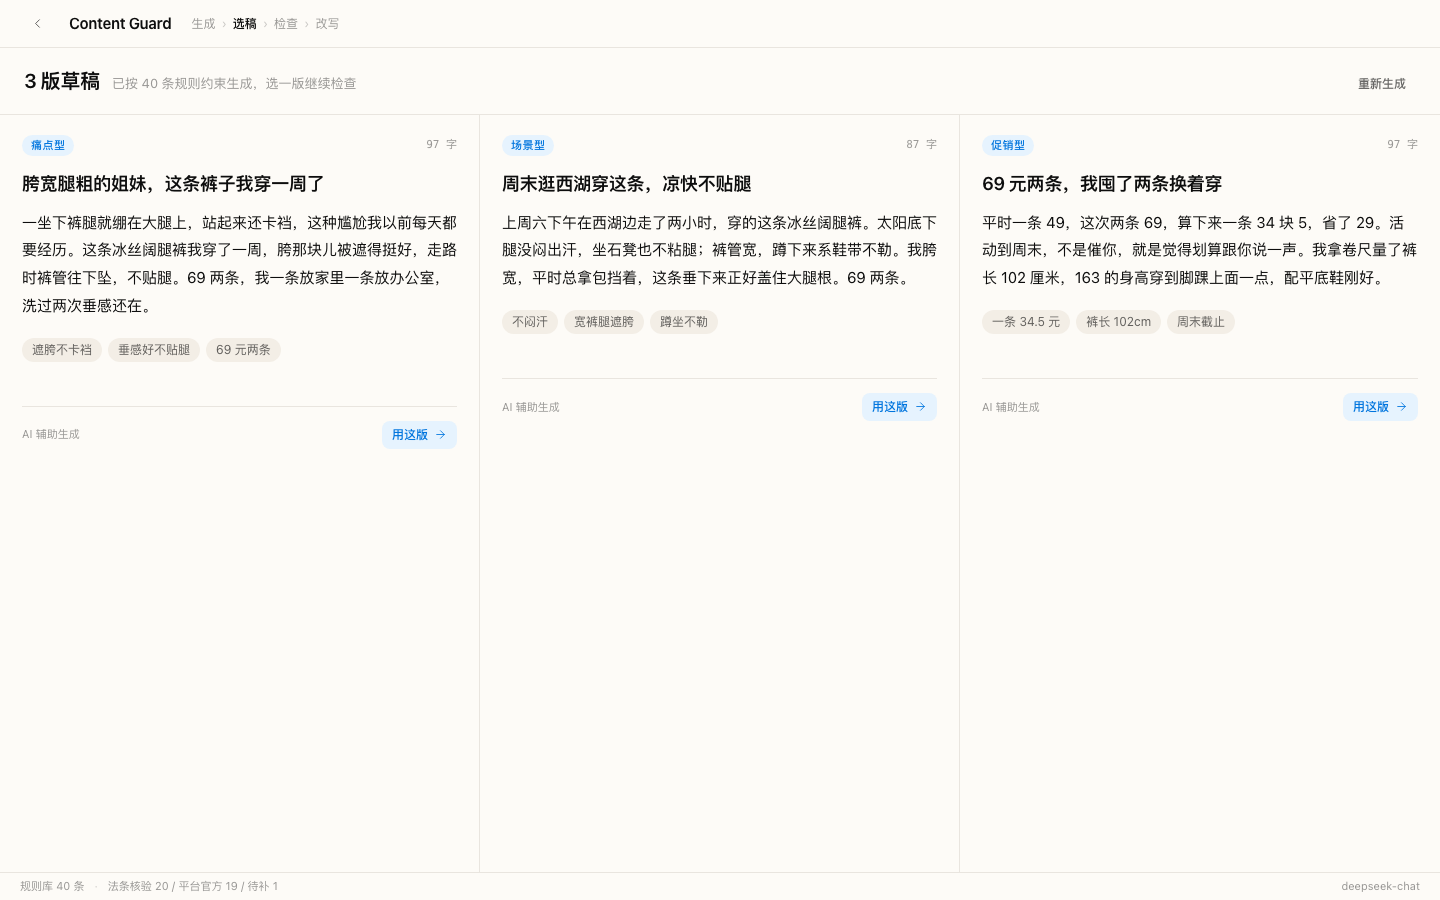
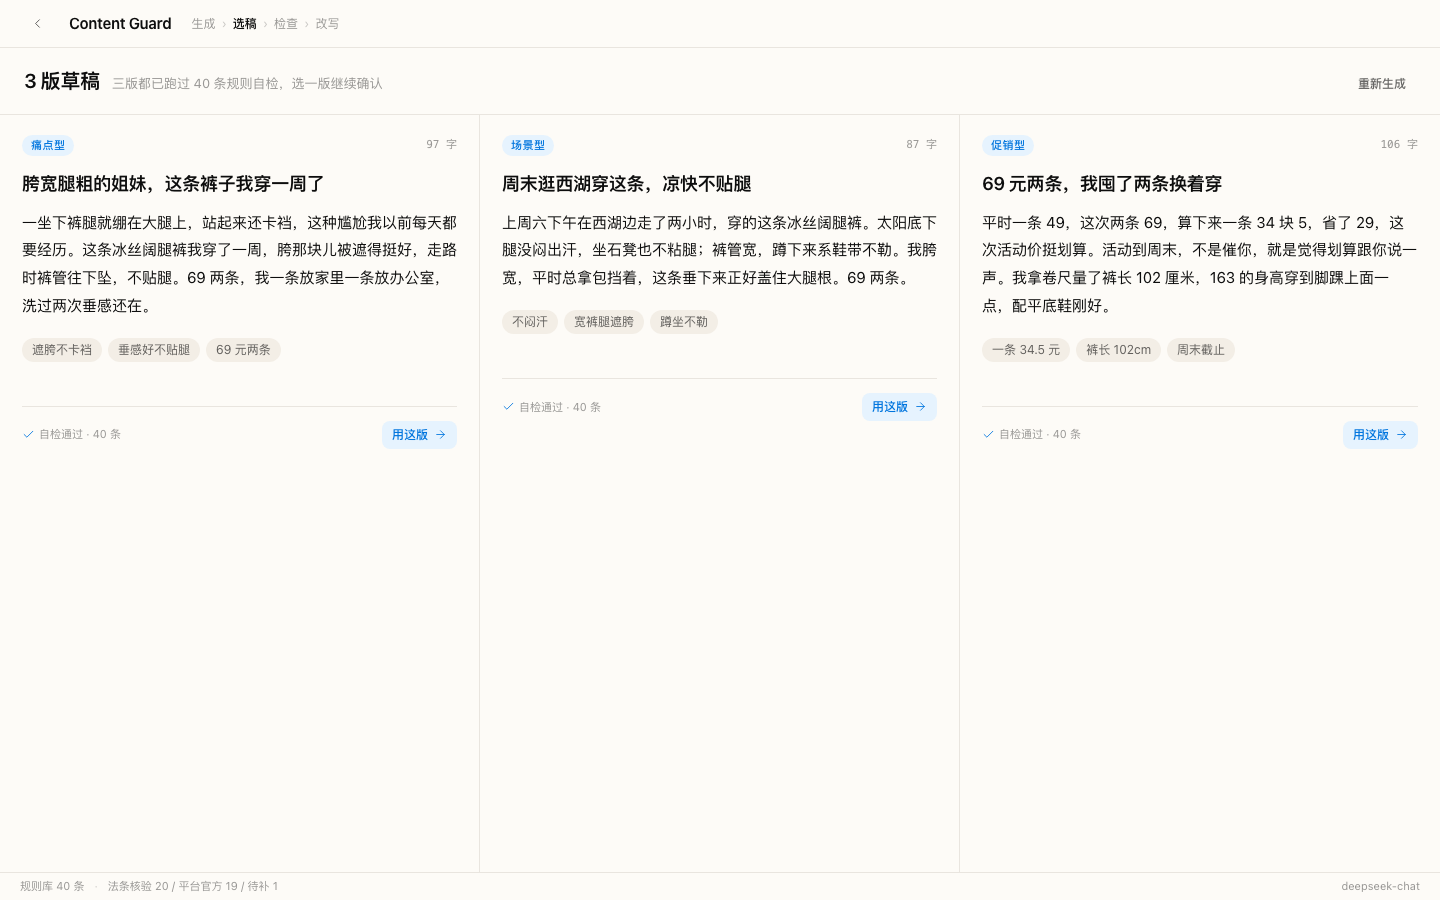
design: 生成即自检（去掉演示用的埋坑），每版显示自检状态；记录 ADR-003

diff --git a/designs/prototype/data.jsx b/designs/prototype/data.jsx
@@ -143,6 +143,7 @@ const DRAFTS = [
       "这条冰丝阔腿裤我穿了一周，胯那块儿被遮得挺好，走路时裤管往下坠，不贴腿。" +
       "69 两条，我一条放家里一条放办公室，洗过两次垂感还在。",
     points: ["遮胯不卡裆", "垂感好不贴腿", "69 元两条"],
+    selfCheck: { rules: 40, fixed: 0 },
   },
   {
     angle: "scene",
@@ -153,46 +154,18 @@ const DRAFTS = [
       "太阳底下腿没闷出汗，坐石凳也不粘腿；裤管宽，蹲下来系鞋带不勒。" +
       "我胯宽，平时总拿包挡着，这条垂下来正好盖住大腿根。69 两条。",
     points: ["不闷汗", "宽裤腿遮胯", "蹲坐不勒"],
+    selfCheck: { rules: 40, fixed: 0 },
   },
   {
     angle: "promo",
     angleName: "促销型",
     title: "69 元两条，我囤了两条换着穿",
     text:
-      "平时一条 49，这次两条 69，算下来一条 34 块 5，省了 29，这个价全网最低了。" +
+      "平时一条 49，这次两条 69，算下来一条 34 块 5，省了 29，这次活动价挺划算。" +
       "活动到周末，不是催你，就是觉得划算跟你说一声。" +
       "我拿卷尺量了裤长 102 厘米，163 的身高穿到脚踝上面一点，配平底鞋刚好。",
     points: ["一条 34.5 元", "裤长 102cm", "周末截止"],
-    /* 生成也会漂：这一版留了一处绝对化，用来说明"生成完也要检查" */
-    violations: [
-      {
-        n: 1,
-        rule_id: "ABS-004",
-        rule_title: "禁止价格类绝对化",
-        severity: "high",
-        quote: "全网最低",
-        source: "《广告绝对化用语执法指南》第二条",
-        clause: "包括“国家级”“最高级”“最佳”以及与其含义相同或者近似的其他用语。",
-        suggestion: "改为具体、可核对的活动价，例如「这次活动价挺划算」",
-        confidence: 0.93,
-      },
-    ],
-    rewrite: {
-      title: "69 元两条，我囤了两条换着穿",
-      text:
-        "平时一条 49，这次两条 69，算下来一条 34 块 5，省了 29，这次活动价挺划算。" +
-        "活动到周末，不是催你，就是觉得划算跟你说一声。" +
-        "我拿卷尺量了裤长 102 厘米，163 的身高穿到脚踝上面一点，配平底鞋刚好。",
-      after: 0,
-      rounds: 1,
-      changes: [
-        {
-          n: 1,
-          before: "这个价全网最低了",
-          after: "这次活动价挺划算",
-          reason: "价格类绝对化，改为可核对的活动描述",
-        },
-      ],
-    },
+    /* 生成即自检：三版都跑过 40 条规则，无命中 */
+    selfCheck: { rules: 40, fixed: 0 },
   },
 ];

diff --git a/designs/prototype/app.jsx b/designs/prototype/app.jsx
@@ -456,7 +456,9 @@ function DraftPicker({ onPick, onRegenerate }) {
       <div className="drafts-head">
         <h2>{loading ? "正在生成 3 版…" : "3 版草稿"}</h2>
         <span className="hint">
-          {loading ? "按 40 条规则约束写作，约 10 秒" : "已按 40 条规则约束生成，选一版继续检查"}
+          {loading
+            ? "生成时会逐条对照 40 条规则，约 10 秒"
+            : "三版都已跑过 40 条规则自检，选一版继续确认"}
         </span>
         <div className="spacer" />
         {!loading && (
@@ -489,7 +491,10 @@ function DraftPicker({ onPick, onRegenerate }) {
                   ))}
                 </ul>
                 <div className="draft-foot">
-                  <span className="note">AI 辅助生成</span>
+                  <span className="check">
+                    <Icon name="check" size={13} />
+                    自检通过 · {d.selfCheck.rules} 条
+                  </span>
                   <div className="spacer" />
                   <button className="btn btn-ghost btn-sm" onClick={() => onPick(d)}>
                     用这版 <Icon name="arrow" size={13} />

diff --git a/designs/prototype/tokens.css b/designs/prototype/tokens.css
@@ -829,6 +829,17 @@ button:disabled { cursor: not-allowed; }
 }
 
 .draft-foot .note { font-size: 11px; color: var(--ink-40); }
+
+.draft-foot .check {
+  display: inline-flex;
+  align-items: center;
+  gap: 4px;
+  font-size: 11px;
+  color: var(--ink-40);
+}
+
+/* 勾用主蓝：系统里"通过/新增"都是蓝，不引入第四个语义色 */
+.draft-foot .check svg { color: var(--blue); }
 .draft-foot .spacer { flex: 1; }
 
 .draft-skeleton {

diff --git a/docs/decisions.md b/docs/decisions.md
@@ -98,3 +98,41 @@ ADR-001 定了"检查是内核"，但没有回答一个更具体的问题：
 ### 什么时候该推翻
 
 若访谈显示商家主要诉求是"我根本没时间写，要现成的"，则提升生成入口权重；但检查能力不得移除。
+
+---
+
+## ADR-003 · 生成即自检：绝不给用户"挖坑再卖梯子"
+
+**日期**：2026-10-25
+**状态**：已采纳（推翻原型中的一个演示设计）
+
+### 背景
+
+原型里为了让"检查→改写"这条链在演示中更明显，我在**促销型草稿里故意留了一句「全网最低」**，选它就能看到违规命中。
+
+产品作者否决，原话大意：
+
+> 我们不可以因为有修改功能，就给用户专门挖坑。他既然用了这个软件，就是信任我们懂条款。如果我们自己生成的东西都可能有问题，那就太说不过去了。生成的东西就要一步到位。
+
+### 决策
+
+1. **生成结果必须是"已自检"的成品**，不得把可能违规的稿子当默认结果展示。
+2. 服务端流程固定为：**生成 → 自检（40 条）→ 命中则自动改写（≤2 轮）→ 复检 → 通过才返回**。
+3. 自检仍不通过的极少数情况：**标记「需人工确认」并单独呈现**，不得混进正常稿里当成品。
+4. 对外措辞只到"**已按 40 条规则自检**"，不承诺"平台一定通过"——判断权在平台，还看账号、图片、视频。
+
+### 理由
+
+- **信任是产品的全部**：用户买的就是"你懂条款"。生成违规再让他修，逻辑上等于承认自己不懂。
+- **演示效果不该靠制造缺陷**：这是典型的"为了讲得漂亮而牺牲正确性"。
+- **诚实边界靠措辞而非承诺**：可以保证"我们查了 40 条"，不能保证"平台不罚"。
+
+### 技术影响（D5 必须改）
+
+- `POST /api/generate` 内部要跑 `check_text` + `rewrite_draft`，返回体加 `self_check: { rules, fixed, passed }`；
+- 生成耗时从约 8s 增到约 15–25s，**前端必须有分阶段进度**（"生成中 → 自检中 → 修复中"），否则用户以为卡死；
+- 若 `passed=false`，该版在选稿页显示黄色角标「需人工确认」，不能给「用这版」。
+
+### 什么时候该推翻
+
+若自检+自动修复把成本推到不可接受（如单篇 > 0.3 元或 > 40s），可退回"生成后提示检查"，但**仍然不能把已知违规的稿子当成品**。
